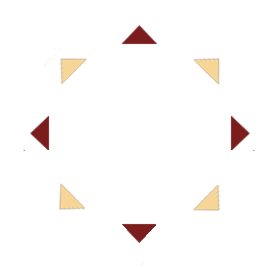
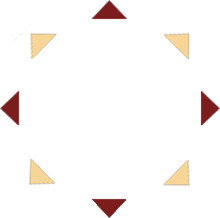
added scrolling functionality to the spokes

diff --git a/index.html b/index.html
@@ -6,9 +6,7 @@
 	<link href='http://fonts.googleapis.com/css?family=Lora' rel='stylesheet' type='text/css'>
 	<link href='http://fonts.googleapis.com/css?family=Exo+2:800' rel='stylesheet' type='text/css'>
 	<link href='http://fonts.googleapis.com/css?family=Codystar' rel='stylesheet' type='text/css'>
-	<script src="http://ajax.googleapis.com/ajax/libs/jquery/1.7.2/jquery.min.js"></script>
 	<link href="style.css" rel="stylesheet">
-	<script src="interaction.js"></script>
 </head>
 <body>
 	<div class="sun-container">
@@ -79,5 +77,7 @@
 		</div><!--end container-->
 		</div><!-- end image filter-->
 	</section> <!-- end contact-->
+	<script src="http://ajax.googleapis.com/ajax/libs/jquery/1.11.2/jquery.min.js"></script>
+	<script src="main.js"></script>
 </body>
 </html>

diff --git a/main.js b/main.js
@@ -1,0 +1,28 @@
+var rotate = function() {
+
+}
+
+var main = function() {
+	var currentScroll = 0;
+	var degree = 0;
+	$(document).scroll(function() {
+		var nextScroll = $(this).scrollTop();
+		function rotate(degree){
+			center: ["50px", "100px"];
+			$('#spokes').css({ WebkitTransform: 'rotate(' + degree + 'deg)'});
+			$('#spokes').css({ '-moz-transform': 'rotate(' + degree + 'deg)'});
+		}
+		if(nextScroll > currentScroll){
+			//downward scrolling
+			degree += (nextScroll - currentScroll);
+			rotate(degree);
+		}
+		else {
+			degree -= (currentScroll - nextScroll);
+			rotate(degree);
+		}
+		currentScroll = nextScroll;
+	});
+};
+
+$(document).ready(main);

diff --git a/style.css b/style.css
@@ -54,9 +54,9 @@ body {
 	position: fixed;
 	background-image: url("sun-spokes.png");
 	background-size: cover;
-	height: 275px;
-	width: 275px;
-	margin: -56px 0 0 -62px;
+	height: 225px;
+	width: 225px;
+	margin: -30px 0 0 -31px;
 }
 
 .slide {
